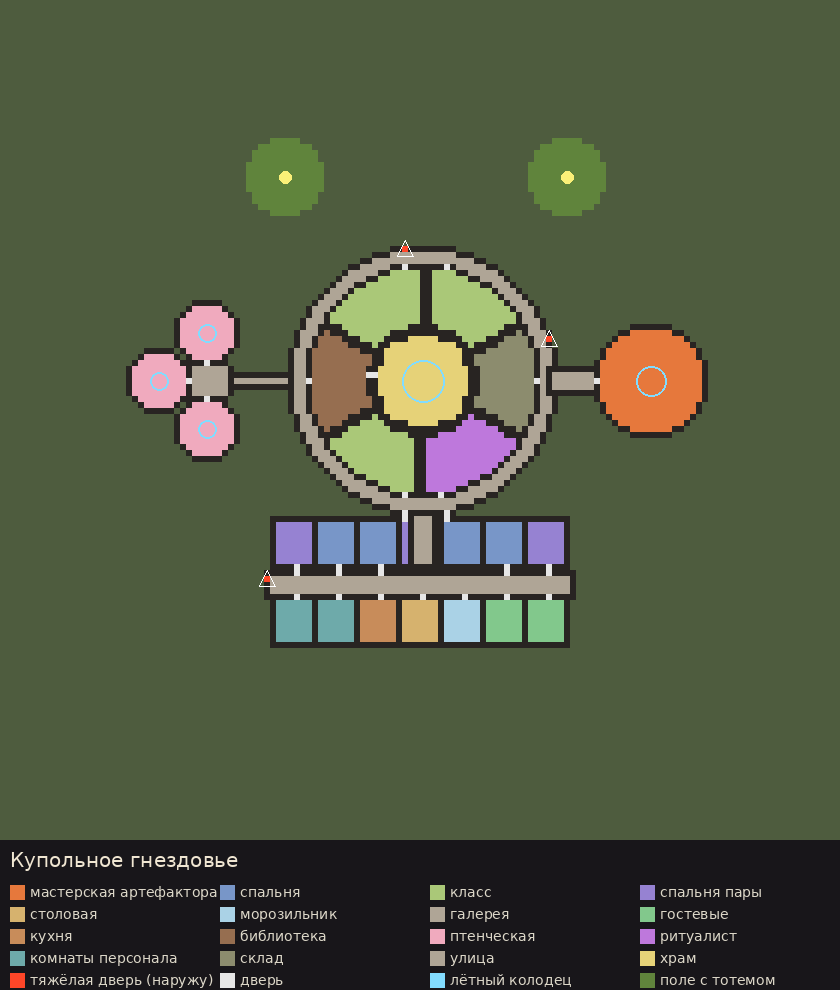
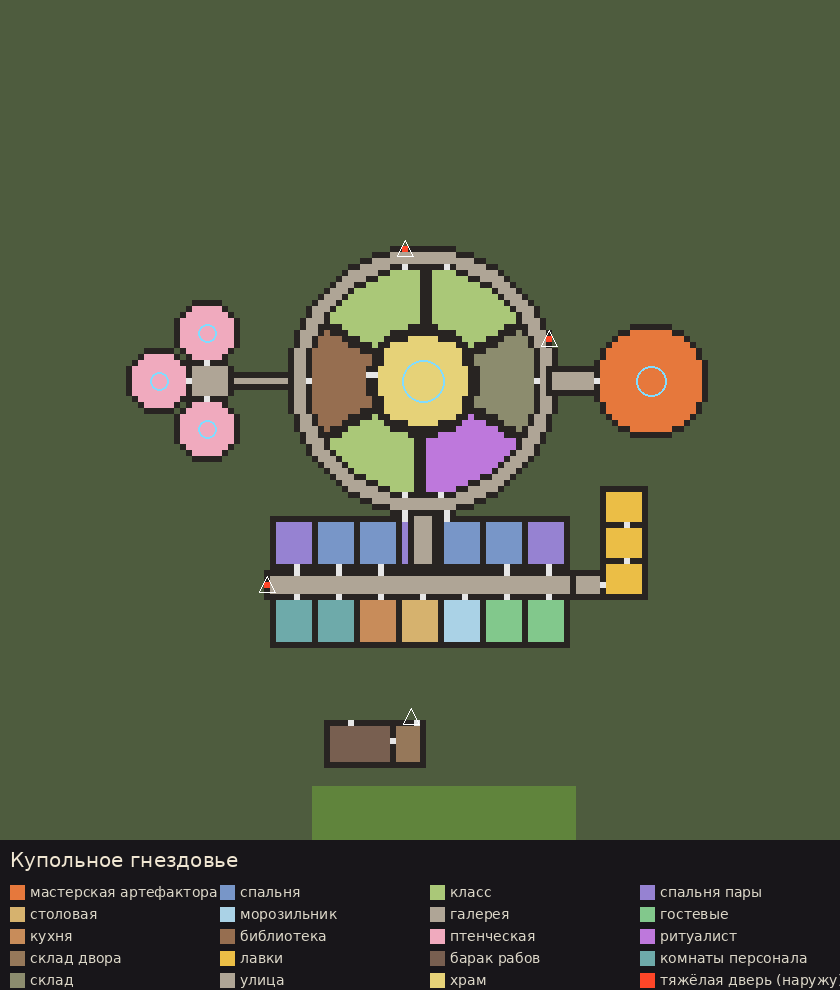
Живые города: превью — рабский двор с широкими полями за стенами, лавки
Claude-Session: https://claude.ai/code/session_01YCWNLtj9zFsogxZeNiDKcG

diff --git a/LivingCities/tools/gen_nest.py b/LivingCities/tools/gen_nest.py
@@ -16,14 +16,15 @@ ROLE_COL = {
     'workshop': (200, 120, 70), 'artificer': (230, 120, 60), 'library': (150, 110, 80), 'ritual': (190, 120, 220),
     'temple': (230, 210, 120), 'class': (170, 200, 120), 'store': (140, 140, 110), 'guest': (130, 200, 140),
     'gallery': (175, 165, 150), 'street': (175, 165, 150), 'herbalist': (110, 190, 90), 'barracks': (180, 90, 90),
-    'freezer': (170, 210, 230), 'market': (220, 200, 90),
+    'freezer': (170, 210, 230), 'market': (220, 200, 90), 'shop': (235, 190, 70), 'slaves': (120, 95, 80), 'shed': (150, 120, 90),
 }
 ROLE_RU = {
     'dining': 'столовая', 'hall': 'зал', 'kitchen': 'кухня', 'bedroom': 'спальня', 'couple': 'спальня пары',
     'nursery': 'птенческая', 'staff': 'комнаты персонала', 'cell': 'камеры', 'workshop': 'мастерская',
     'artificer': 'мастерская артефактора', 'library': 'библиотека', 'ritual': 'ритуалист', 'temple': 'храм',
     'class': 'класс', 'store': 'склад', 'guest': 'гостевые', 'gallery': 'галерея', 'street': 'улица',
-    'herbalist': 'алхимик и садик', 'barracks': 'казарма', 'freezer': 'морозильник', 'market': 'рынок',
+    'herbalist': 'алхимик и садик', 'barracks': 'казарма', 'freezer': 'морозильник', 'market': 'рынок', 'shop': 'лавки',
+    'slaves': 'барак рабов', 'shed': 'склад двора',
 }
 
 
@@ -97,6 +98,19 @@ class Plan:
                 if self.inpoly(dx, dz, r + 0.5) and self.ok(cx + dx, cz + dz) and self.g[cx + dx][cz + dz] == GROUND:
                     self.g[cx + dx][cz + dz] = FIELD
         self.totems.append((cx, cz))
+
+    def wide_field(self, x0, z0, w, h):
+        for x in range(x0, x0 + w):
+            for z in range(z0, z0 + h):
+                if self.ok(x, z) and self.g[x][z] == GROUND: self.g[x][z] = FIELD
+
+    def slave_yard(self, x0, z0, fields_w=36, fields_h=12):
+        """The slave yard just outside the city (the author): a barrack, a shed for what they gather (a carrier takes it
+        into the city), wide fields beside them."""
+        self.rect(x0, z0, 12, 8, 'slaves')
+        self.rect(x0 + 11, z0, 6, 8, 'shed')
+        self.wide_field(x0 - 2, z0 - fields_h - 3, fields_w, fields_h)
+        self.posts.append((x0 + 14, z0 + 8, 'overseer'))
 
     def river(self, x0, width, wobble):
         for z in range(N):
@@ -204,6 +218,15 @@ class Plan:
                     o = b if a in seen else a
                     if self.rooms[o]['role'] in flight_only: continue
                     self.cut(cells[len(cells) // 2]); seen.add(o); changed = True
+        # the slave yard stands outside the city: its own plain doors to the open ground, none into the city
+        for i, r in enumerate(self.rooms):
+            if r['role'] not in ('slaves', 'shed'): continue
+            cands = [c for c in adj.get((i, -1), []) if self.open_out(c)]
+            if cands: self.cut(cands[len(cands) // 2])
+            for (a, b), cells in adj.items():
+                if b != -1 and {a, b} == {i, next((k for k, q in enumerate(self.rooms) if q['role'] == ('shed' if r['role'] == 'slaves' else 'slaves')), -2)}:
+                    self.cut(cells[len(cells) // 2])
+            seen.add(i)
         self.unreached = [i for i in range(nr) if i not in seen and self.rooms[i]['role'] not in flight_only]
 
 
@@ -227,11 +250,9 @@ def t_ring(seed):
     sx = c + 23
     p.rect(sx, c - 2, 34, 5, 'street')
     for i in range(5):
-        p.rect(sx + 2 + i * 6, c + 2, 7, 7, 'staff'); p.rect(sx + 2 + i * 6, c - 8, 7, 7, 'staff' if i < 3 else 'cell')
+        p.rect(sx + 2 + i * 6, c + 2, 7, 7, 'staff'); p.rect(sx + 2 + i * 6, c - 8, 7, 7, 'shop' if i < 4 else 'cell')
     cd = p.disc(sx + 39, c, 6, 'dining'); p.well(cd, 1)
-    # fields
-    for k, ang in enumerate((235, 270, 305)):
-        p.field(c + int(36 * math.cos(math.radians(ang))), c + int(36 * math.sin(math.radians(ang))), 7)
+    p.slave_yard(c - 18, c - 42, 40, 14)
     p.doors(); return p, 'Кольцевое гнездовье'
 
 
@@ -255,9 +276,8 @@ def t_river(seed):
     hb = p.disc(e + 10, c + 6, 7, 'herbalist'); p.well(hb, 2)
     gd = p.disc(e + 10, c - 14, 7, 'guest'); p.well(gd, 1)
     p.bridge(c - 40, c - 6, c + 14); p.bridge(c + 38, c - 6, c + 14)
-    for z in (c - 46, c + 46):
-        p.field(w + 4, z, 6)
-    p.field(e + 24, c + 32, 6)
+    p.slave_yard(w - 14, c - 48, 34, 12)
+    for i in range(3): p.rect(e - 21, c + 2 + i * 6, 8, 7, 'shop')
     p.doors(); return p, 'Речное гнездовье'
 
 
@@ -279,8 +299,9 @@ def t_dome(seed):
         n = p.disc(hx + int(8 * math.cos(math.radians(ang))), hz + int(8 * math.sin(math.radians(ang))), 5, 'nursery'); p.well(n, 1)
     a = p.disc(c + 38, c + 6, 9, 'artificer'); p.well(a, 2)
     p.rect(c + 21, c + 4, 9, 5, 'gallery')
-    for ang in (60, 120):
-        p.field(c + int(48 * math.cos(math.radians(ang))), c + 6 + int(40 * math.sin(math.radians(ang))), 6)
+    p.slave_yard(c - 16, c - 58, 44, 10)
+    for i in range(3): p.rect(c + 30, c - 30 + i * 6, 8, 7, 'shop')
+    p.rect(c + 25, c - 30, 6, 5, 'street')
     p.doors(); return p, 'Купольное гнездовье'
 
 
@@ -301,8 +322,8 @@ def t_mountain(seed):
     for i in range(3):
         p.rect(c + 3, c - 36 + i * 7, 8, 8, 'cell' if i < 2 else 'staff')
         p.rect(c - 10, c - 36 + i * 7, 8, 8, 'staff')
-    for z in (c - 50, c - 40):
-        p.field(c + 14, z, 5) if p.g[c + 14][z] == GROUND else None
+    p.slave_yard(c - 8, c - 66, 24, 8)
+    for i in range(2): p.rect(c - 10, c - 15 + i * 7, 8, 8, 'shop')
     p.doors(flight_only=('library', 'artificer', 'temple')); return p, 'Горное гнездовье'
 
 
@@ -340,7 +361,7 @@ def render(p, title, out, scale=6):
         f = fb = None
     top = N * S + 8
     d.text((10, top), title, fill=(240, 230, 210), font=fb)
-    items = [(ROLE_RU[r], ROLE_COL[r]) for r in sorted(used) if r in ROLE_RU] + [('тяжёлая дверь (наружу)', (255, 70, 40)), ('дверь', (230, 230, 230)), ('лётный колодец', (130, 220, 255)), ('поле с тотемом', (96, 132, 60))]
+    items = [(ROLE_RU[r], ROLE_COL[r]) for r in sorted(used) if r in ROLE_RU] + [('тяжёлая дверь (наружу)', (255, 70, 40)), ('дверь', (230, 230, 230)), ('лётный колодец', (130, 220, 255)), ('поле (работают рабы)', (96, 132, 60)), ('пост (треугольник)', (255, 255, 255))]
     x0, y0 = 10, top + 34
     for i, (name, col) in enumerate(items):
         cx = x0 + (i % 4) * (N * S // 4); cy = y0 + (i // 4) * 22
